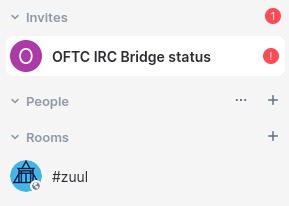
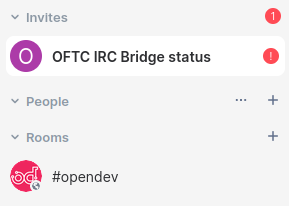
Update Matrix instructions
This updates the instructions with the new room name.

Changed region(s): [[0.0311, 0.7573, 0.1557, 0.932], [0.1869, 0.8155, 0.4048, 0.9029]]

diff --git a/doc/source/howtos/matrix.rst b/doc/source/howtos/matrix.rst
@@ -2,15 +2,13 @@ Chatting with Matrix
 ====================
 
 The Zuul community uses mailing lists for long-form communication and
-IRC for real-time (or near real-time) chat.  We are working on moving
-our chat platform to Matrix.  You can start using Matrix now to chat
-with us on IRC and when we move, the transition will be seamless.
+Matrix for real-time (or near real-time) chat.
 
 This guide will walk you through getting started with Matrix and how
 to use it to join communities like Zuul on IRC.
 
 Familiar with Matrix already and want to jump straight to the room?
-Follow this link: `https://matrix.to/#/#_oftc_#zuul:matrix.org <https://matrix.to/#/#_oftc_#zuul:matrix.org>`_
+Follow this link: `https://matrix.to/#/#zuul:opendev.org <https://matrix.to/#/#zuul:opendev.org>`_
 
 Why Use Matrix?
 ---------------
@@ -78,12 +76,8 @@ You can follow the link to sign in.
 .. image:: /images/matrix/account-signin.png
    :align: center
 
-Join the #zuul Channel
-----------------------
-
-The ``#zuul`` channel is hosted on the OFTC IRC network, and is
-accessible via a bridge run by the Matrix community.  To join
-``#zuul``, perform the following steps:
+Join the #zuul Room
+-------------------
 
 Click the plus icon next to `Rooms` on the left of the screen, then
 click `Explore public rooms` in the dropdown that appears.
@@ -91,41 +85,15 @@ click `Explore public rooms` in the dropdown that appears.
 .. image:: /images/matrix/account-rooms-dropdown.png
    :align: center
 
-A popup dialog will appear; below the search bar in the dialog, click
-the dropdown selector labeled `Matrix rooms (matrix.org)` and change
-it to `OFTC rooms (matrix.org)`.  Then enter ``#zuul`` into the search
-box.
+A popup dialog will appear; enter ``#zuul:opendev.org`` into the
+search box.
 
 .. image:: /images/matrix/account-rooms-zuul.png
    :align: center
 
-It will display `No results for "#zuul"` which is an unfortunate
-consequence of one of the anti-spam measures that is necessary on IRC.
-Disregard that and hit `enter` or click `Join`, and you will join the
-room.
-
-If this is your first time joining an OFTC channel, you will also
-receive an invitation to join the `OFTC IRC Bridge status` room.
-
-.. image:: /images/matrix/account-rooms-invite.png
-   :align: center
-
-Accept the invitation.
-
-.. image:: /images/matrix/account-rooms-accept.png
-   :align: center
-
-This is a private control channel between you and the system that
-operates the OFTC bridge.  Here you can perform some IRC commands such
-as changing your nickname and setting up nick registration.  That is
-out of scope for this HOWTO, but advanced IRC users may be interested
-in doing so.
-
-You may repeat this procedure for any other IRC channels on the OFTC,
-Freenode, or libera.chat networks.
-
-Click the `#zuul` room name on the left of the screen to return the
-Zuul room.
+It will display `No results for "#zuul:opendev.org"` since the room is
+hosted on a federated homeserver, but it's really there.  Disregard
+that and hit `enter` or click `Join`, and you will join the room.
 
 Go ahead and say hi, introduce yourself, and let us know what you're
 working on or any questions you have.  Keep in mind that the Zuul
@@ -147,3 +115,4 @@ improve your experience.
 
    matrix-encryption
    matrix-id
+   matrix-irc

diff --git a/doc/source/howtos/matrix-irc.rst b/doc/source/howtos/matrix-irc.rst
@@ -1,0 +1,49 @@
+Optional: Join an IRC Room
+==========================
+
+The Matrix community maintains bridges to most major IRC networks.
+You can use the same Matrix account and client to join IRC channels as
+well as Zuul's Matrix Room.  You will benefit from the persistent
+connection and history features as well.  Follow the instructions
+below to join an IRC channel.  The example below is for the
+``#opendev`` channel on OFTC, but the process is similar for other
+channels or networks.
+
+Click the plus icon next to `Rooms` on the left of the screen, then
+click `Explore public rooms` in the dropdown that appears.
+
+.. image:: /images/matrix/account-rooms-dropdown.png
+   :align: center
+
+A popup dialog will appear; below the search bar in the dialog, click
+the dropdown selector labeled `Matrix rooms (matrix.org)` and change
+it to `OFTC rooms (matrix.org)`.  Then enter ``#opendev`` into the search
+box.
+
+.. image:: /images/matrix/account-rooms-opendev.png
+   :align: center
+
+It will display `No results for "#opendev"` which is an unfortunate
+consequence of one of the anti-spam measures that is necessary on IRC.
+Disregard that and hit `enter` or click `Join`, and you will join the
+room.
+
+If this is your first time joining an OFTC channel, you will also
+receive an invitation to join the `OFTC IRC Bridge status` room.
+
+.. image:: /images/matrix/account-rooms-invite.png
+   :align: center
+
+Accept the invitation.
+
+.. image:: /images/matrix/account-rooms-accept.png
+   :align: center
+
+This is a private control channel between you and the system that
+operates the OFTC bridge.  Here you can perform some IRC commands such
+as changing your nickname and setting up nick registration.  That is
+out of scope for this HOWTO, but advanced IRC users may be interested
+in doing so.
+
+You may repeat this procedure for any other IRC channels on the OFTC,
+Freenode, or libera.chat networks.
